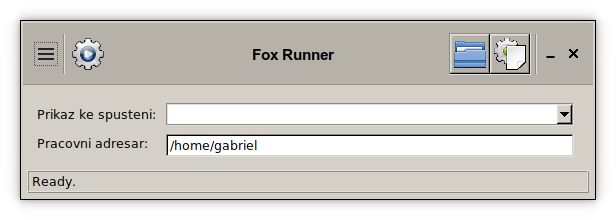
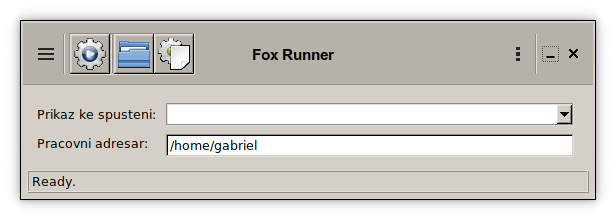
Boxes - toolbar and launch options

Changed region(s): [[0.0925, 0.1364, 0.3393, 0.3545], [0.7094, 0.1364, 0.8636, 0.3545]]

diff --git a/src/Boxes.cpp b/src/Boxes.cpp
@@ -74,15 +74,57 @@ FXMenuCommand* FXMenuBox::makeCommand( FXMenuPane *pane, const FXString &title, 
    return new FXMenuCommand( pane, title, (( Application * ) this->getApp( ))->get_iconstheme( )->get_icon( icon, "Menu" ), getBoxFrame( )->getBoxTarget( ), sel );
 }
 
+/*** OPTIONS MENU ****************************************************************************/
+FXIMPLEMENT( FXOptionsBox, FXGHI_HeaderBox, NULL, 0 )
+
+FXOptionsBox::FXOptionsBox( FXWindowHeader *p, FXIcon *ic ) : FXGHI_HeaderBox( p, NULL, 0, LAYOUT_CENTER_Y | LAYOUT_RIGHT, 0, 0, 0 )
+{
+  m_button = new FXMenuButton( this, "\t\tMoznosti spusteni", ic, make_menu( ), BUTTON_TOOLBAR|ICON_ABOVE_TEXT|LAYOUT_FILL_Y );
+}
+
+void FXOptionsBox::create( )
+{
+  FXGHI_HeaderBox::create( );
+  m_button->create( );
+}
+
+FXMenuPane* FXOptionsBox::make_menu( )
+{
+  //Application  *app = ( Application * ) this->getApp( );
+  //FXIconsTheme *icons = app->get_iconstheme( );
+  FXObject     *tgt = getBoxFrame( )->getBoxTarget( );
+
+  // Structura menu
+  FXMenuPane *ToolsMenu = new FXMenuPane( this );
+
+  // Nabidka volby
+  new FXMenuCheck( ToolsMenu, "Superuzivatelska prava", tgt, Runner::ID_USER, 0 );
+  new FXMenuCheck( ToolsMenu, "Neblokujici rezim", tgt, Runner::ID_ANNOUNCE, 0 );
+  new FXMenuCheck( ToolsMenu, "Nezavirat Launcher", tgt, Runner::ID_NOQUIT, 0 );
+  new FXVerticalSeparator( ToolsMenu, SEPARATOR_GROOVE );
+  new FXMenuCheck( ToolsMenu, "Spustit v terminalu", tgt, Runner::ID_TERMINAL, 0 );
+  new FXMenuCheck( ToolsMenu, "Nezavirat terminal", tgt, Runner::ID_TERMLOCK, 0 );
+
+  return ToolsMenu;
+}
+
+FXMenuCommand* FXOptionsBox::makeCommand( FXMenuPane *pane, const FXString &title, const FXString &icon, FXSelector sel )
+{
+   return new FXMenuCommand( pane, title, (( Application * ) this->getApp( ))->get_iconstheme( )->get_icon( icon, "Menu" ), getBoxFrame( )->getBoxTarget( ), sel );
+}
+
+
 /*** Tool bar *************************************************************************************/
 FXIMPLEMENT( Toolbar, FXGHI_HeaderBox, NULL, 0 )
 
-Toolbar::Toolbar( FXWindowHeader *p ) : FXGHI_HeaderBox( p, NULL, 0, FRAME_SUNKEN | LAYOUT_RIGHT, 0, 0, 0 )
+Toolbar::Toolbar( FXWindowHeader *p ) : FXGHI_HeaderBox( p, NULL, 0, FRAME_SUNKEN | LAYOUT_LEFT, 0, 0, 0 )
 {
   Application  *app = ( Application * ) this->getApp( );
   FXIconsTheme *icons = app->get_iconstheme( );
   FXObject     *tgt = getBoxFrame( )->getBoxTarget( );  
-
+  
+  new FXButton( this, "\t\t Spustit",    icons->get_icon( "run", "HeaderBar" ), tgt, Runner::ID_ACCEPT,   BUTTON_NORMAL | LAYOUT_LEFT );
+  new FXVerticalSeparator( this, SEPARATOR_RIDGE | LAYOUT_FILL_Y, 0, 0, 0, 0, 1, 1 ); 
   new FXButton( this, "\t\t Otevrit soubor", icons->get_icon( "open", "HeaderBar" ), tgt, Runner::ID_OPEN_FILE, BUTTON_NORMAL | LAYOUT_RIGHT );
   new FXButton( this, "\t\t Zmenit pracovni adresar", icons->get_icon( "directory", "HeaderBar" ), tgt, Runner::ID_OPEN_DIR, BUTTON_NORMAL | LAYOUT_RIGHT );
 }

diff --git a/src/Runner.cpp b/src/Runner.cpp
@@ -33,7 +33,6 @@ Runner::Runner( Application *a )
 
   this->load( );
   
-  
   //  Window composite mask
   FXVerticalFrame *content = new FXVerticalFrame( this, FRAME_NONE | LAYOUT_FILL );
   
@@ -63,20 +62,12 @@ Runner::Runner( Application *a )
   ver_str += AutoVersion::STATUS;
   ver_str += "]";
   //whb->setText( ver_str );
-
-  /* - menu */
+  
   new FXMenuBox( whb, this->getMenuIcon( ) );
   new FXVerticalSeparator( whb );
-  
-  
-  /* - Buttons */
-  new FXButton( whb, "\t\t Spustit",    icons->get_icon( "run", "HeaderBar" )    /*app->icon_copy( "system-run.png" )*/,     this, Runner::ID_ACCEPT,   BUTTON_TOOLBAR | FRAME_RAISED | ICON_ABOVE_TEXT | LAYOUT_FILL_Y );
-  new Toolbar( whb );  
+  new Toolbar( whb );
+  new FXOptionsBox( whb, this->getMenuIcon( true ) );
 
-  /*
-  new FXButton( whb, "\t\t Otevrit soubor", icons->get_icon( "open", "HeaderBar" ), this, Runner::ID_OPEN_FILE, BUTTON_TOOLBAR | LAYOUT_RIGHT );
-  new FXButton( whb, "\t\t Zmenit pracovni adresar", icons->get_icon( "directory", "HeaderBar" ), this, Runner::ID_OPEN_DIR, BUTTON_TOOLBAR | LAYOUT_RIGHT );
-  */
   /* Initialize */
   r_acmd = new Task;
 

diff --git a/include/Boxes.h b/include/Boxes.h
@@ -47,6 +47,28 @@ protected :
   FXMenuCommand* makeCommand( FXMenuPane *pane, const FXString &Title, const FXString &icon, FXSelector sel );
 };
 
+/*** Process options menu *************************************************************************/
+class FXOptionsBox : public FXGHI_HeaderBox {
+FXDECLARE( FXOptionsBox )
+  FXMenuButton *m_button;
+  
+public :
+  FXOptionsBox( FXWindowHeader *p, FXIcon *ic );
+  virtual ~FXOptionsBox( ) { }
+
+  /* Operations */
+  virtual void create( );
+
+  /* Access methods */
+
+protected :
+  FXOptionsBox( ) { }
+  
+  /* Helpers methods */
+  FXMenuPane* make_menu( );
+  FXMenuCommand* makeCommand( FXMenuPane *pane, const FXString &Title, const FXString &icon, FXSelector sel );
+};
+
 /*** ToolBox **************************************************************************************/
 class Toolbar : public FXGHI_HeaderBox {
 FXDECLARE( Toolbar )

diff --git a/src/Application.cpp b/src/Application.cpp
@@ -1,5 +1,5 @@
 /*************************************************************************
-* Application.cpp Copyright (c) 2012 - 2022 by  D.A.Tiger                     *
+* Application.cpp Copyright (c) 2012 - 2022 by  D.A.Tiger                *
 *                                                                        *
 * This program is free software: you can redistribute it and/or modify   *
 * it under the terms of the GNU General Public License as published by   *
